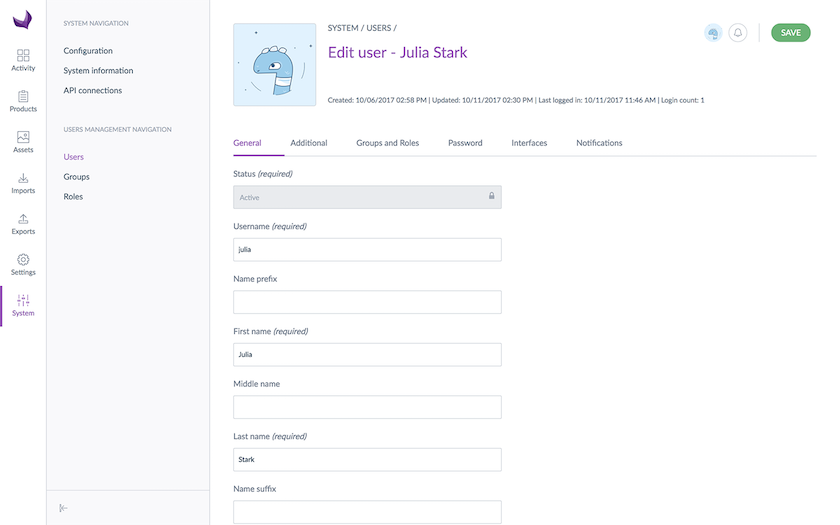
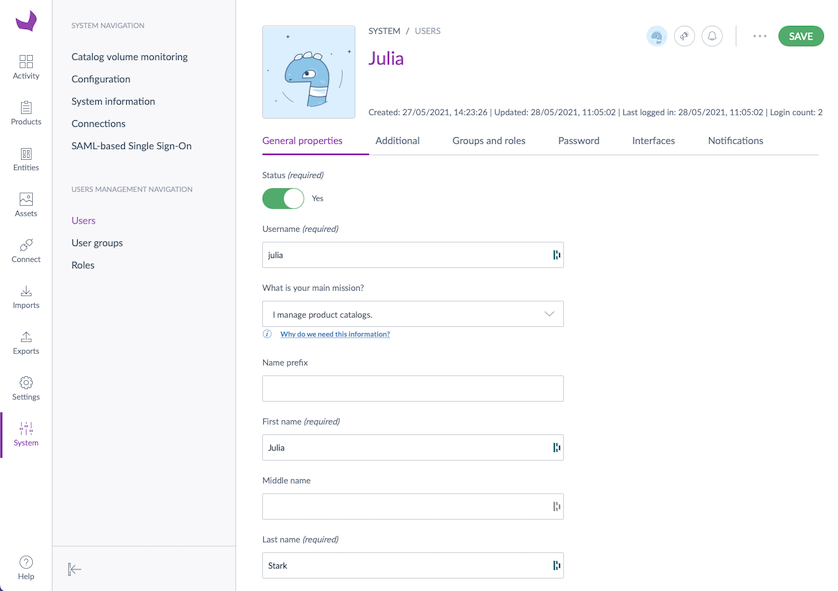
CXP-679 New field main mission in the user profile

diff --git a/content/md/first-steps/manage-your-account.md b/content/md/first-steps/manage-your-account.md
@@ -24,7 +24,12 @@ Enterprise Edition clients will also see a `Notifications` tab to manage notific
 
 ## Your general information
 
-Under the `General` tab, you will be able to edit your personal information: username, firstname, lastname, add/remove your picture and your email address.
+Under the `General` tab, you will be able to edit your personal information: username, firstname, lastname, add/remove your picture, and your email address. 
+
+::: tips
+You can even select `What is your main mission` in the PIM. This will help us improve Akeneo PIM and your user experience. 
+By knowing your main mission, we will be able to improve Akeneo PIM to help you improve your product data, your catalog structure or suggest you third-parties to connect with your PIM depending on your specific needs.
+:::
 
 ![image](../img/System_users_Profil_edit.png)
 
